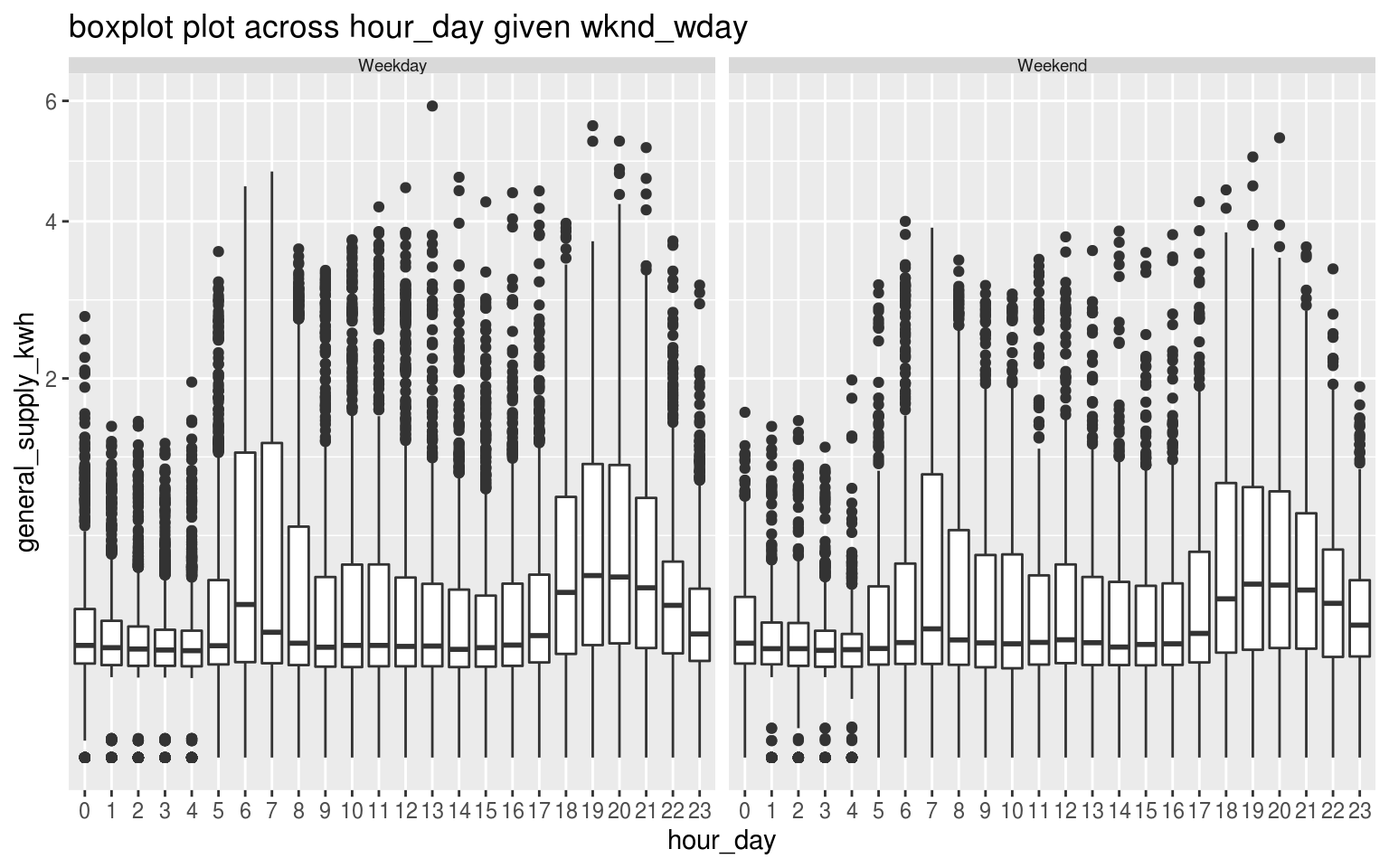
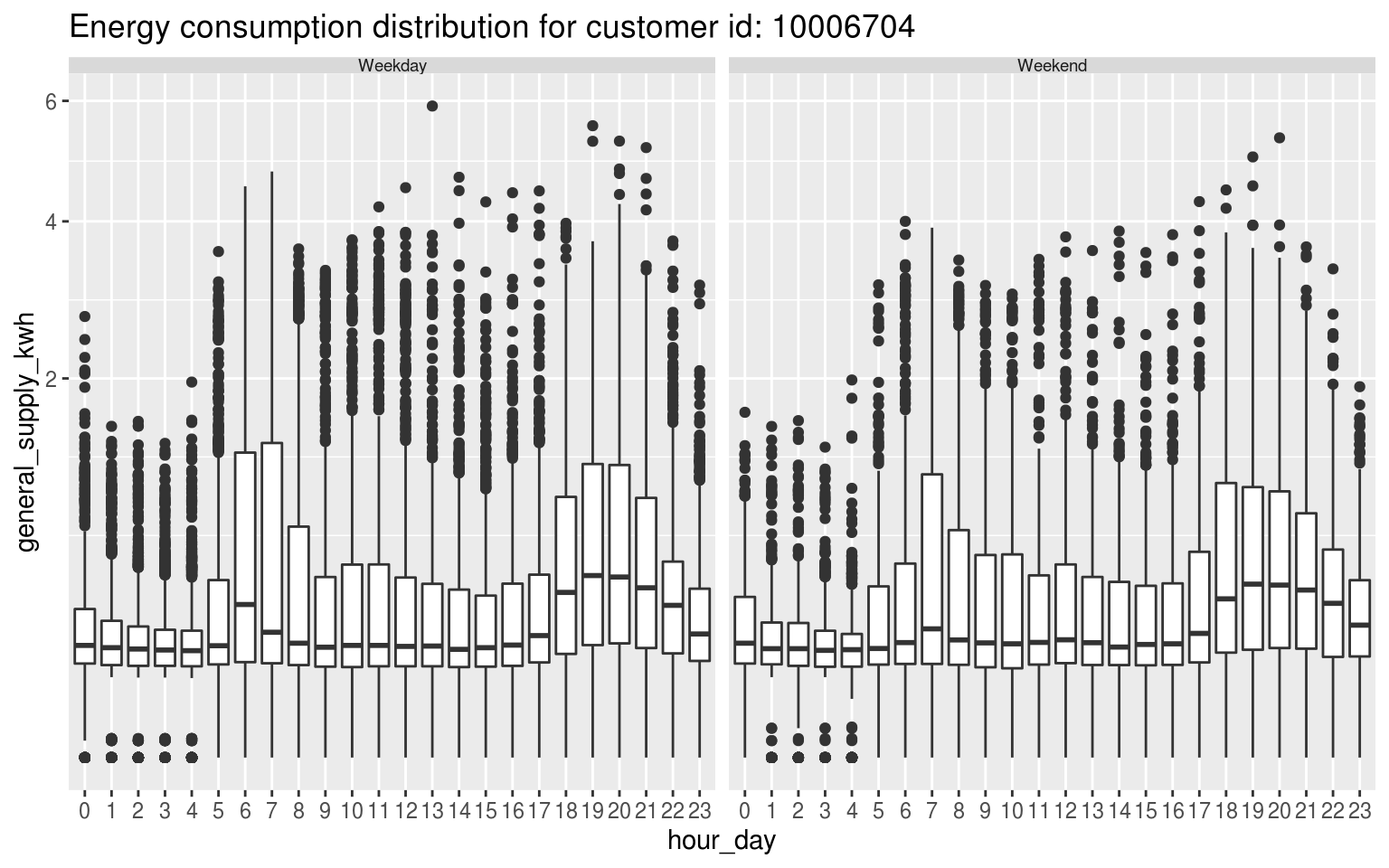
Deploy from Travis build 192 [ci skip]
Build URL: https://travis-ci.org/Sayani07/gravitas/builds/604908464
Commit: 441acfc68cfcf469e801188b56831e7457f11f7b

Changed region(s): [[0.0312, 0.0, 0.6562, 0.0625]]

diff --git a/index.html b/index.html
@@ -97,13 +97,13 @@
 <div id="overview" class="section level2">
 <h2 class="hasAnchor">
 <a href="#overview" class="anchor"></a>Overview</h2>
-<p>Package <code>gravitas</code> provides a tool to examine the probability distribution of univariate time series across bivariate temporal granularities using range of graphics in <code>ggplot2</code> through the following:</p>
+<p>Package <code>gravitas</code> provides a tool to examine the probability distribution of univariate time series across bivariate temporal granularities using a range of graphics in <code>ggplot2</code> through the following:</p>
 <ul>
 <li><p>create multiple-order-up circular or aperiodic temporal granularities.</p></li>
 <li><p>categorize pairs of granularities as either <em>harmony</em> or <em>clash</em>, where harmonies are pairs of granularities that aid exploratory data analysis, and clashes are pairs that are incompatible with each other for exploratory analysis.</p></li>
-<li><p>recommending appropriate probability distribution plots of the time series variable across the bivariate granularities based on the levels of the bivariate granularties and their interaction.</p></li>
+<li><p>recommending appropriate probability distribution plots of the time series variable across the bivariate granularities based on the levels of the bivariate granularities and their interaction.</p></li>
 </ul>
-<p><code>gravitas</code> is not restricted to temporal data. It can be utilized in non-temporal cases for which a hierarchical structure can be construed similar to time. The hierarchical structure of time creates a natural nested ordering. For example, hours are nested within days, days within weeks, weeks within months, and so on. Similarly, if a periiodic nesting exist for a non-temporal application, <code>gravitas</code> can be used to explore the probability distribution of a continuous random variable.</p>
+<p><code>gravitas</code> is not restricted to temporal data. It can be utilized in non-temporal cases for which a hierarchical structure can be construed similar to time. The hierarchical structure of time creates a natural nested ordering. For example, hours are nested within days, days within weeks, weeks within months, and so on. Similarly, if a periodic nesting exists for a non-temporal application, <code>gravitas</code> can be used to explore the probability distribution of a continuous random variable.</p>
 </div>
 <div id="installation" class="section level2">
 <h2 class="hasAnchor">
@@ -127,7 +127,7 @@
 <li><p>Build any temporal granularity with <code><a href="reference/create_gran.html">create_gran()</a></code></p></li>
 <li><p>Check if two temporal granularities are harmonies with <code><a href="reference/is_harmony.html">is_harmony()</a></code></p></li>
 <li><p>Get all possible harmonies with <code><a href="reference/harmony.html">harmony()</a></code></p></li>
-<li><p>Get recommendations on choosing more appropriate distribution plots and advice on interaction between granularities, number of observations available for drawing probability distributions for chosen granularities with <code><a href="reference/gran_advice.html">gran_advice()</a></code></p></li>
+<li><p>Get recommendations on choosing more appropriate distribution plots and advice on the interaction between granularities, number of observations available for drawing probability distributions for chosen granularities with <code><a href="reference/gran_advice.html">gran_advice()</a></code></p></li>
 <li><p>Validate if the created granularity matches your already existing column with <code><a href="reference/validate_gran.html">validate_gran()</a></code></p></li>
 <li><p>Explore probability distribution across bivariate temporal granularities with <code><a href="reference/prob_plot.html">prob_plot()</a></code></p></li>
 </ul>
@@ -135,7 +135,7 @@
 <div id="example-temporal-case" class="section level2">
 <h2 class="hasAnchor">
 <a href="#example-temporal-case" class="anchor"></a>Example: temporal case</h2>
-<p>The probability distribution of the energy consumption for ten households from <a href="https://data.gov.au/dataset/ds-dga-4e21dea3-9b87-4610-94c7-15a8a77907ef/details?q=smart-meter">customer trials</a> can be explored as follows:</p>
+<p>The probability distribution of energy consumption for ten households from <a href="https://data.gov.au/dataset/ds-dga-4e21dea3-9b87-4610-94c7-15a8a77907ef/details?q=smart-meter">customer trials</a> can be explored as follows:</p>
 <div id="search-for-granularities" class="section level3">
 <h3 class="hasAnchor">
 <a href="#search-for-granularities" class="anchor"></a>Search for granularities</h3>
@@ -173,16 +173,15 @@
 <div id="visualize-probability-distribution-of-the-harmony-pair-wknd_wday-hour_day" class="section level3">
 <h3 class="hasAnchor">
 <a href="#visualize-probability-distribution-of-the-harmony-pair-wknd_wday-hour_day" class="anchor"></a>Visualize probability distribution of the harmony pair (wknd_wday, hour_day)</h3>
-<p>Area quantile plots are drawn across hours of the day faceted by weekend/weekday. The black line represents the median, whereas the orange and green represents the area between 25th and 75th percentile and between 10th and 90th percentile respectively. For this household, median energy consumption for the early morning hours is extremely high for weekends compared to weekdays. The energy behavior is skewed to the left, where 10th and 25th percentile are very close to each other in both weekend/weekday.</p>
+<p>Box plots are drawn across hours of the day faceted by weekend/weekday for a household in the data <code>smart_meter10</code> in the package. It is interesting to see the difference in energy consumption in the early morning hours (1 am - 7 am) for weekdays and weekends. The interquartile range is the same in these hours, however, median energy consumption for these hours is higher for weekends compared to weekdays. The distribution for the rest of the day is not significantly different for weekdays and weekends, implying their energy behavior after 7 am remains more or less similar.</p>
 <div class="sourceCode" id="cb5"><pre class="sourceCode r"><code class="sourceCode r"><a class="sourceLine" id="cb5-1" data-line-number="1">smart_meter10 <span class="op">%&gt;%</span></a>
 <a class="sourceLine" id="cb5-2" data-line-number="2"><span class="st"> </span><span class="kw"><a href="https://dplyr.tidyverse.org/reference/filter.html">filter</a></span>(customer_id <span class="op">==</span><span class="st"> </span><span class="dv">10017936</span>) <span class="op">%&gt;%</span></a>
 <a class="sourceLine" id="cb5-3" data-line-number="3"><span class="st">   </span><span class="kw"><a href="reference/prob_plot.html">prob_plot</a></span>(</a>
 <a class="sourceLine" id="cb5-4" data-line-number="4">     <span class="dt">gran1 =</span> <span class="st">"wknd_wday"</span>,</a>
 <a class="sourceLine" id="cb5-5" data-line-number="5">     <span class="dt">gran2 =</span> <span class="st">"hour_day"</span>,</a>
 <a class="sourceLine" id="cb5-6" data-line-number="6">     <span class="dt">response =</span> <span class="st">"general_supply_kwh"</span>,</a>
-<a class="sourceLine" id="cb5-7" data-line-number="7">     <span class="dt">plot_type =</span> <span class="st">"quantile"</span>,</a>
-<a class="sourceLine" id="cb5-8" data-line-number="8">     <span class="dt">quantile_prob =</span> <span class="kw"><a href="https://rdrr.io/r/base/c.html">c</a></span>(<span class="fl">0.1</span>, <span class="fl">0.25</span>, <span class="fl">0.5</span>, <span class="fl">0.75</span>, <span class="fl">0.9</span>)) <span class="op">+</span></a>
-<a class="sourceLine" id="cb5-9" data-line-number="9"><span class="st">   </span><span class="kw"><a href="https://ggplot2.tidyverse.org/reference/scale_continuous.html">scale_y_sqrt</a></span>()</a></code></pre></div>
+<a class="sourceLine" id="cb5-7" data-line-number="7">     <span class="dt">plot_type =</span> <span class="st">"boxplot"</span>) <span class="op">+</span></a>
+<a class="sourceLine" id="cb5-8" data-line-number="8"><span class="st">   </span><span class="kw"><a href="https://ggplot2.tidyverse.org/reference/scale_continuous.html">scale_y_sqrt</a></span>() <span class="op">+</span><span class="st"> </span><span class="kw"><a href="https://ggplot2.tidyverse.org/reference/scale_discrete.html">scale_x_discrete</a></span>(<span class="dt">breaks =</span> <span class="kw"><a href="https://rdrr.io/r/base/seq.html">seq</a></span>(<span class="dv">0</span>, <span class="dv">23</span>, <span class="dv">3</span>))</a></code></pre></div>
 <p><img src="reference/figures/README-probplot-1.png" width="100%"></p>
 </div>
 </div>
@@ -193,7 +192,7 @@
 <div id="visualize-granularities-for-non-temporal-data" class="section level4">
 <h4 class="hasAnchor">
 <a href="#visualize-granularities-for-non-temporal-data" class="anchor"></a>Visualize granularities for non-temporal data</h4>
-<p>Each inning of the match is plotted across facets and overs of the innings are plotted across the x-axis. It can be observed from the letter value plot that there is no clear upward shift in runs in the second innings as compared to the first innings. The variability in runs increase as the teams approach towards the end of the innings, as observed through the longer and more distinct letter values.</p>
+<p>Each inning of the match is plotted across facets and overs of the innings are plotted across the x-axis. It can be observed from the letter value plot that there is no clear upward shift in runs in the second innings as compared to the first innings. The variability in runs increases as the teams approach towards the end of the innings, as observed through the longer and more distinct letter values.</p>
 <div class="sourceCode" id="cb6"><pre class="sourceCode r"><code class="sourceCode r"><a class="sourceLine" id="cb6-1" data-line-number="1"><span class="kw"><a href="https://rdrr.io/r/base/library.html">library</a></span>(tsibble)</a>
 <a class="sourceLine" id="cb6-2" data-line-number="2"><span class="co">#&gt; Warning: package 'tsibble' was built under R version 3.5.2</span></a>
 <a class="sourceLine" id="cb6-3" data-line-number="3"><span class="co">#&gt; </span></a>
@@ -211,7 +210,7 @@
 <a class="sourceLine" id="cb6-15" data-line-number="15"> )</a>
 <a class="sourceLine" id="cb6-16" data-line-number="16"> cricket_tsibble <span class="op">%&gt;%</span></a>
 <a class="sourceLine" id="cb6-17" data-line-number="17"><span class="st">   </span><span class="kw"><a href="reference/create_gran.html">create_gran</a></span>(</a>
-<a class="sourceLine" id="cb6-18" data-line-number="18">     <span class="st">"ball_over"</span>,</a>
+<a class="sourceLine" id="cb6-18" data-line-number="18">     <span class="st">"over_inning"</span>,</a>
 <a class="sourceLine" id="cb6-19" data-line-number="19">     hierarchy_model</a>
 <a class="sourceLine" id="cb6-20" data-line-number="20">   )</a>
 <a class="sourceLine" id="cb6-21" data-line-number="21"><span class="co">#&gt; # A tsibble: 8,560 x 12 [1]</span></a>
@@ -228,15 +227,15 @@
 <a class="sourceLine" id="cb6-32" data-line-number="32"><span class="co">#&gt;  9   2008        2 Chennai Sup… Kings XI Pu…      1     9      0         1</span></a>
 <a class="sourceLine" id="cb6-33" data-line-number="33"><span class="co">#&gt; 10   2008        2 Chennai Sup… Kings XI Pu…      1    10      0         2</span></a>
 <a class="sourceLine" id="cb6-34" data-line-number="34"><span class="co">#&gt; # … with 8,550 more rows, and 4 more variables: runs_per_over &lt;dbl&gt;,</span></a>
-<a class="sourceLine" id="cb6-35" data-line-number="35"><span class="co">#&gt; #   run_rate &lt;dbl&gt;, data_index &lt;int&gt;, ball_over &lt;fct&gt;</span></a>
-<a class="sourceLine" id="cb6-36" data-line-number="36"></a>
-<a class="sourceLine" id="cb6-37" data-line-number="37">   cricket_tsibble <span class="op">%&gt;%</span></a>
-<a class="sourceLine" id="cb6-38" data-line-number="38"><span class="st">   </span><span class="kw"><a href="https://dplyr.tidyverse.org/reference/filter.html">filter</a></span>(batting_team <span class="op">%in%</span><span class="st"> </span><span class="kw"><a href="https://rdrr.io/r/base/c.html">c</a></span>(<span class="st">"Mumbai Indians"</span>,</a>
-<a class="sourceLine" id="cb6-39" data-line-number="39">                              <span class="st">"Chennai Super Kings"</span>))<span class="op">%&gt;%</span></a>
-<a class="sourceLine" id="cb6-40" data-line-number="40"><span class="st">   </span><span class="kw"><a href="reference/prob_plot.html">prob_plot</a></span>(<span class="st">"inning"</span>, <span class="st">"over"</span>,</a>
-<a class="sourceLine" id="cb6-41" data-line-number="41">   hierarchy_model,</a>
-<a class="sourceLine" id="cb6-42" data-line-number="42">   <span class="dt">response =</span> <span class="st">"runs_per_over"</span>,</a>
-<a class="sourceLine" id="cb6-43" data-line-number="43">   <span class="dt">plot_type =</span> <span class="st">"lv"</span>)</a></code></pre></div>
+<a class="sourceLine" id="cb6-35" data-line-number="35"><span class="co">#&gt; #   run_rate &lt;dbl&gt;, data_index &lt;int&gt;, over_inning &lt;fct&gt;</span></a></code></pre></div>
+<div class="sourceCode" id="cb7"><pre class="sourceCode r"><code class="sourceCode r"><a class="sourceLine" id="cb7-1" data-line-number="1"></a>
+<a class="sourceLine" id="cb7-2" data-line-number="2">   cricket_tsibble <span class="op">%&gt;%</span></a>
+<a class="sourceLine" id="cb7-3" data-line-number="3"><span class="st">   </span><span class="kw"><a href="https://dplyr.tidyverse.org/reference/filter.html">filter</a></span>(batting_team <span class="op">%in%</span><span class="st"> </span><span class="kw"><a href="https://rdrr.io/r/base/c.html">c</a></span>(<span class="st">"Mumbai Indians"</span>,</a>
+<a class="sourceLine" id="cb7-4" data-line-number="4">                              <span class="st">"Chennai Super Kings"</span>))<span class="op">%&gt;%</span></a>
+<a class="sourceLine" id="cb7-5" data-line-number="5"><span class="st">   </span><span class="kw"><a href="reference/prob_plot.html">prob_plot</a></span>(<span class="st">"inning"</span>, <span class="st">"over"</span>,</a>
+<a class="sourceLine" id="cb7-6" data-line-number="6">   hierarchy_model,</a>
+<a class="sourceLine" id="cb7-7" data-line-number="7">   <span class="dt">response =</span> <span class="st">"runs_per_over"</span>,</a>
+<a class="sourceLine" id="cb7-8" data-line-number="8">   <span class="dt">plot_type =</span> <span class="st">"lv"</span>)</a></code></pre></div>
 <p><img src="reference/figures/README-cricket-1.png" width="100%"></p>
 </div>
 </div>
@@ -249,8 +248,8 @@
 <div id="acknowledgements" class="section level2">
 <h2 class="hasAnchor">
 <a href="#acknowledgements" class="anchor"></a>Acknowledgements</h2>
-<p>Thanks to PhD supervisors <a href="https://robjhyndman.com/">Prof. Rob J Hyndman</a>, <a href="http://dicook.org/">Prof. Dianne Cook</a> and <a href="https://summerofcode.withgoogle.com/">Google Summer of Code 2019</a> mentor <a href="http://rosuda.org/~unwin/">Prof. Antony Unwin</a> for their support and always leading by example. The fine balance of encouraging me to work on my ideas and stepping in to help when I need has made the devlopment of this package a great learning experience for me.</p>
-<p>Moreover, I want to thank my cohort at <a href="https://www.monash.edu/news/articles/team-profile-monash-business-analytics-team">NUMBATS</a>, Monash University for always lending an ear and sharing their wisdom and experience of developing R packages whenever needed.</p>
+<p>Thanks to PhD supervisors <a href="https://robjhyndman.com/">Prof. Rob J Hyndman</a>, <a href="http://dicook.org/">Prof. Dianne Cook</a> and <a href="https://summerofcode.withgoogle.com/">Google Summer of Code 2019</a> mentor <a href="http://rosuda.org/~unwin/">Prof. Antony Unwin</a> for their support and always leading by example. The fine balance of encouraging me to work on my ideas and stepping in to help when I need has made the development of this package a great learning experience for me.</p>
+<p>Moreover, I want to thank my cohort at <a href="https://www.monash.edu/news/articles/team-profile-monash-business-analytics-team">NUMBATS</a>, Monash University, especially <a href="https://www.mitchelloharawild.com/">Mitchell O’Hara-Wild</a> and <a href="https://github.com/nspyrison">Nicholas Spyrison</a> for always lending an ear and sharing their wisdom and experience of developing R packages, with such kindness.</p>
 </div>
 <div id="reporting-and-issues" class="section level2">
 <h2 class="hasAnchor">

diff --git a/articles/gravitas_vignette.html b/articles/gravitas_vignette.html
@@ -109,7 +109,7 @@ https://github.com/njtierney/naniar/blob/master/vignettes/getting-started-w-nani
 <div id="analysis-of-smart-meter-data" class="section level1">
 <h1 class="hasAnchor">
 <a href="#analysis-of-smart-meter-data" class="anchor"></a>Analysis of smart meter data</h1>
-<p>The <code>smart_meter10</code> data set in the package is a <a href="https://tsibble.tidyverts.org/">tsibble</a> providing the energy consumption for ten households from <a href="https://data.gov.au/dataset/ds-dga-4e21dea3-9b87-4610-94c7-15a8a77907ef/details?q=smart-meter">customer trials</a>.</p>
+<p>The <code>smart_meter10</code> data set in the package is a <a href="https://tsibble.tidyverts.org/">tsibble</a> providing the energy consumption for ten households from <a href="https://data.gov.au/dataset/ds-dga-4e21dea3-9b87-4610-94c7-15a8a77907ef/details?q=smart-meter">customer trials</a>. It is hard to derive insights when we try to visualize periodicity in the data for all households. For example, if we plot the energy consumption across each hour of the day, the structure of the data suggests that there are several data points for each hour of the day for just one household. Hence, for several households, there will be a blob of points for each hour of the day.</p>
 <div class="sourceCode" id="cb1"><pre class="sourceCode r"><code class="sourceCode r"><a class="sourceLine" id="cb1-1" data-line-number="1">smart_meter10 <span class="op">%&gt;%</span><span class="st"> </span><span class="kw">select</span>(customer_id,</a>
 <a class="sourceLine" id="cb1-2" data-line-number="2">                         reading_datetime,</a>
 <a class="sourceLine" id="cb1-3" data-line-number="3">                         general_supply_kwh,</a>
@@ -133,7 +133,6 @@ https://github.com/njtierney/naniar/blob/master/vignettes/getting-started-w-nani
 <a class="sourceLine" id="cb1-21" data-line-number="21"><span class="co">#&gt; #   controlled_load_kwh &lt;dbl&gt;, gross_generation_kwh &lt;dbl&gt;,</span></a>
 <a class="sourceLine" id="cb1-22" data-line-number="22"><span class="co">#&gt; #   net_generation_kwh &lt;dbl&gt;, other_kwh &lt;dbl&gt;</span></a></code></pre></div>
 <!-- To have an understanding of how different the energy consumption for each household of the trial is, energy consumption is plotted against time with each transition state indicating one household for a sample. If we plot the raw data for all of them, it is difficult to get insights into their behavior.  -->
-<p>It is hard to derive insights when we try to visualize periodicity in the data for all households. For example, if we plot the energy consumption across each hour of the day, the structure of the data suggests that there are several data points for each hour of the day for just one household. Hence, for several households, there will be a blob of points for each hour of the day.</p>
 <!-- # ```{r, echo=FALSE, out.width="100%"} -->
 <!-- # # smart_p <- smart_meter10 %>% -->
 <!-- # #            ggplot() + -->
@@ -151,8 +150,8 @@ https://github.com/njtierney/naniar/blob/master/vignettes/getting-started-w-nani
 <!-- # -->
 <!-- # knitr::include_graphics("man/figures/smart_allcust_period.gif") -->
 <!-- # ``` -->
-<p>So the question is how to explore systematically multiple perspectives of this smart meter data across different time granularities? The solution is to visualize the probability distributions across these granularities to find regular / nearly-periodic patterns or anomalies in behaviors.</p>
-<p>Let us see how we can analyze the energy behavior of these households by making allowances for the following aspects of time granularities: Computation, interaction and visualization.</p>
+<p>So the question is how to explore systematically multiple perspectives of this smart meter data across different time granularities to find regular patterns or anomalies in behaviors? One way can be by visualizing the probability distributions across these granularities.</p>
+<p>Let us see how we can explore the energy behavior of a couple of households by making allowances for the following aspects of time granularities: Computation, interaction and visualization.</p>
 <div id="computation" class="section level2">
 <h2 class="hasAnchor">
 <a href="#computation" class="anchor"></a>Computation</h2>
@@ -315,15 +314,18 @@ https://github.com/njtierney/naniar/blob/master/vignettes/getting-started-w-nani
 <a class="sourceLine" id="cb10-4" data-line-number="4">                            <span class="st">"hour_day"</span>,</a>
 <a class="sourceLine" id="cb10-5" data-line-number="5">                            <span class="dt">response =</span> <span class="st">"general_supply_kwh"</span>,</a>
 <a class="sourceLine" id="cb10-6" data-line-number="6">                            <span class="dt">plot_type =</span> <span class="st">"boxplot"</span>) <span class="op">+</span></a>
-<a class="sourceLine" id="cb10-7" data-line-number="7"><span class="st">  </span><span class="kw"><a href="https://ggplot2.tidyverse.org/reference/scale_continuous.html">scale_y_sqrt</a></span>()</a></code></pre></div>
+<a class="sourceLine" id="cb10-7" data-line-number="7"><span class="st">  </span><span class="kw"><a href="https://ggplot2.tidyverse.org/reference/scale_continuous.html">scale_y_sqrt</a></span>() <span class="op">+</span></a>
+<a class="sourceLine" id="cb10-8" data-line-number="8"><span class="st">  </span><span class="kw"><a href="https://ggplot2.tidyverse.org/reference/labs.html">ggtitle</a></span>(<span class="st">"Energy consumption distribution for customer id: 10006704"</span>)</a></code></pre></div>
 <div class="sourceCode" id="cb11"><pre class="sourceCode r"><code class="sourceCode r"><a class="sourceLine" id="cb11-1" data-line-number="1">cust2 &lt;-<span class="st"> </span>smart_meter10 <span class="op">%&gt;%</span><span class="st"> </span></a>
 <a class="sourceLine" id="cb11-2" data-line-number="2"><span class="st">  </span><span class="kw"><a href="https://dplyr.tidyverse.org/reference/filter.html">filter</a></span>(customer_id <span class="op">%in%</span><span class="st"> </span><span class="kw"><a href="https://rdrr.io/r/base/c.html">c</a></span>(<span class="dv">10017936</span>))<span class="op">%&gt;%</span><span class="st"> </span></a>
 <a class="sourceLine" id="cb11-3" data-line-number="3"><span class="st">  </span><span class="kw"><a href="../reference/prob_plot.html">prob_plot</a></span>(<span class="st">"wknd_wday"</span>,</a>
 <a class="sourceLine" id="cb11-4" data-line-number="4">                            <span class="st">"hour_day"</span>,</a>
 <a class="sourceLine" id="cb11-5" data-line-number="5">                            <span class="dt">response =</span> <span class="st">"general_supply_kwh"</span>,</a>
 <a class="sourceLine" id="cb11-6" data-line-number="6">                            <span class="dt">plot_type =</span> <span class="st">"boxplot"</span>) <span class="op">+</span></a>
-<a class="sourceLine" id="cb11-7" data-line-number="7"><span class="st">  </span><span class="kw"><a href="https://ggplot2.tidyverse.org/reference/scale_continuous.html">scale_y_sqrt</a></span>()</a></code></pre></div>
+<a class="sourceLine" id="cb11-7" data-line-number="7"><span class="st">  </span><span class="kw"><a href="https://ggplot2.tidyverse.org/reference/scale_continuous.html">scale_y_sqrt</a></span>() <span class="op">+</span><span class="st"> </span></a>
+<a class="sourceLine" id="cb11-8" data-line-number="8"><span class="st">  </span><span class="kw"><a href="https://ggplot2.tidyverse.org/reference/labs.html">ggtitle</a></span>(<span class="st">"Energy consumption distribution for customer id: 10017936"</span>)</a></code></pre></div>
 <p><img src="gravitas_vignette_files/figure-html/cust-1.png" width="768" style="display: block; margin: auto;"><img src="gravitas_vignette_files/figure-html/cust-2.png" width="768" style="display: block; margin: auto;"></p>
+<p>Similarly, we can plot the other harmony pairs and decide if they are useful in deriving insights about the energy behavior of the customers.</p>
 </div>
 <div id="future-development" class="section level2">
 <h2 class="hasAnchor">
@@ -338,7 +340,7 @@ https://github.com/njtierney/naniar/blob/master/vignettes/getting-started-w-nani
 <h2 class="hasAnchor">
 <a href="#acknowledgements" class="anchor"></a>Acknowledgements</h2>
 <p>Thanks to PhD supervisors <a href="https://robjhyndman.com/">Prof. Rob J Hyndman</a>, <a href="http://dicook.org/">Prof. Dianne Cook</a> and <a href="https://summerofcode.withgoogle.com/">Google Summer of Code 2019</a> mentor <a href="http://rosuda.org/~unwin/">Prof. Antony Unwin</a> for their support and always leading by example. The fine balance of encouraging me to work on my ideas and stepping in to help when I need has made the development of this package a great learning experience for me.</p>
-<p>Moreover, I want to thank my cohort at <a href="https://www.monash.edu/news/articles/team-profile-monash-business-analytics-team">NUMBATS</a>, Monash University for always lending an ear and sharing their wisdom and experience of developing R packages whenever needed.</p>
+<p>Moreover, I want to thank my cohort at <a href="https://www.monash.edu/news/articles/team-profile-monash-business-analytics-team">NUMBATS</a>, Monash University, especially <a href="https://www.mitchelloharawild.com/">Mitchell O’Hara-Wild</a> and <a href="https://github.com/nspyrison">Nicholas Spyrison</a> for always lending an ear and sharing their wisdom and experience of developing R packages, with such kindness.</p>
 </div>
 </div>
   </div>

diff --git a/reference/cricket.html b/reference/cricket.html
@@ -174,7 +174,7 @@ different cities in India from 2008 to 2016</p>
   <span class='kw'>convert_fct</span> <span class='kw'>=</span> <span class='fu'><a href='https://rdrr.io/r/base/c.html'>c</a></span>(<span class='fl'>1</span>, <span class='fl'>6</span>, <span class='fl'>20</span>, <span class='fl'>2</span>, <span class='fl'>1</span>))
 <span class='co'># Compute granularities ----</span>
 <span class='no'>cricket_tsibble</span> <span class='kw'>%&gt;%</span>
-  <span class='fu'><a href='create_gran.html'>create_gran</a></span>(<span class='st'>"ball_over"</span>,
+  <span class='fu'><a href='create_gran.html'>create_gran</a></span>(<span class='st'>"over_inning"</span>,
                <span class='no'>hierarchy_model</span>)</div><div class='output co'>#&gt; # A tsibble: 8,560 x 12 [1]
 #&gt;    season match_id batting_team bowling_team inning  over wicket dot_balls
 #&gt;     &lt;dbl&gt;    &lt;dbl&gt; &lt;chr&gt;        &lt;chr&gt;         &lt;dbl&gt; &lt;dbl&gt;  &lt;dbl&gt;     &lt;dbl&gt;
@@ -189,7 +189,7 @@ different cities in India from 2008 to 2016</p>
 #&gt;  9   2008        2 Chennai Sup… Kings XI Pu…      1     9      0         1
 #&gt; 10   2008        2 Chennai Sup… Kings XI Pu…      1    10      0         2
 #&gt; # … with 8,550 more rows, and 4 more variables: runs_per_over &lt;dbl&gt;,
-#&gt; #   run_rate &lt;dbl&gt;, data_index &lt;int&gt;, ball_over &lt;fct&gt;</div><div class='input'><span class='co'># Visualise distribution of runs across granularities ----</span>
+#&gt; #   run_rate &lt;dbl&gt;, data_index &lt;int&gt;, over_inning &lt;fct&gt;</div><div class='input'><span class='co'># Visualise distribution of runs across granularities ----</span>
 <span class='no'>cricket_tsibble</span> <span class='kw'>%&gt;%</span>
   <span class='fu'><a href='https://dplyr.tidyverse.org/reference/filter.html'>filter</a></span>(<span class='no'>batting_team</span> <span class='kw'>%in%</span> <span class='fu'><a href='https://rdrr.io/r/base/c.html'>c</a></span>(<span class='st'>"Mumbai Indians"</span>,
                              <span class='st'>"Chennai Super Kings"</span>))<span class='kw'>%&gt;%</span>

diff --git a/reference/create_gran.html b/reference/create_gran.html
@@ -240,7 +240,7 @@ December.</p></td>
 )
 <span class='no'>cricket_tsibble</span> <span class='kw'>%&gt;%</span>
   <span class='fu'>create_gran</span>(
-    <span class='st'>"ball_over"</span>,
+    <span class='st'>"over_inning"</span>,
     <span class='no'>hierarchy_model</span>
   )</div><div class='output co'>#&gt; # A tsibble: 8,560 x 12 [1]
 #&gt;    season match_id batting_team bowling_team inning  over wicket dot_balls
@@ -256,7 +256,7 @@ December.</p></td>
 #&gt;  9   2008        2 Chennai Sup… Kings XI Pu…      1     9      0         1
 #&gt; 10   2008        2 Chennai Sup… Kings XI Pu…      1    10      0         2
 #&gt; # … with 8,550 more rows, and 4 more variables: runs_per_over &lt;dbl&gt;,
-#&gt; #   run_rate &lt;dbl&gt;, data_index &lt;int&gt;, ball_over &lt;fct&gt;</div><div class='input'>
+#&gt; #   run_rate &lt;dbl&gt;, data_index &lt;int&gt;, over_inning &lt;fct&gt;</div><div class='input'>
   <span class='no'>cricket_tsibble</span> <span class='kw'>%&gt;%</span>
   <span class='fu'><a href='https://dplyr.tidyverse.org/reference/filter.html'>filter</a></span>(<span class='no'>batting_team</span> <span class='kw'>%in%</span> <span class='fu'><a href='https://rdrr.io/r/base/c.html'>c</a></span>(<span class='st'>"Mumbai Indians"</span>,
                              <span class='st'>"Chennai Super Kings"</span>))<span class='kw'>%&gt;%</span>
